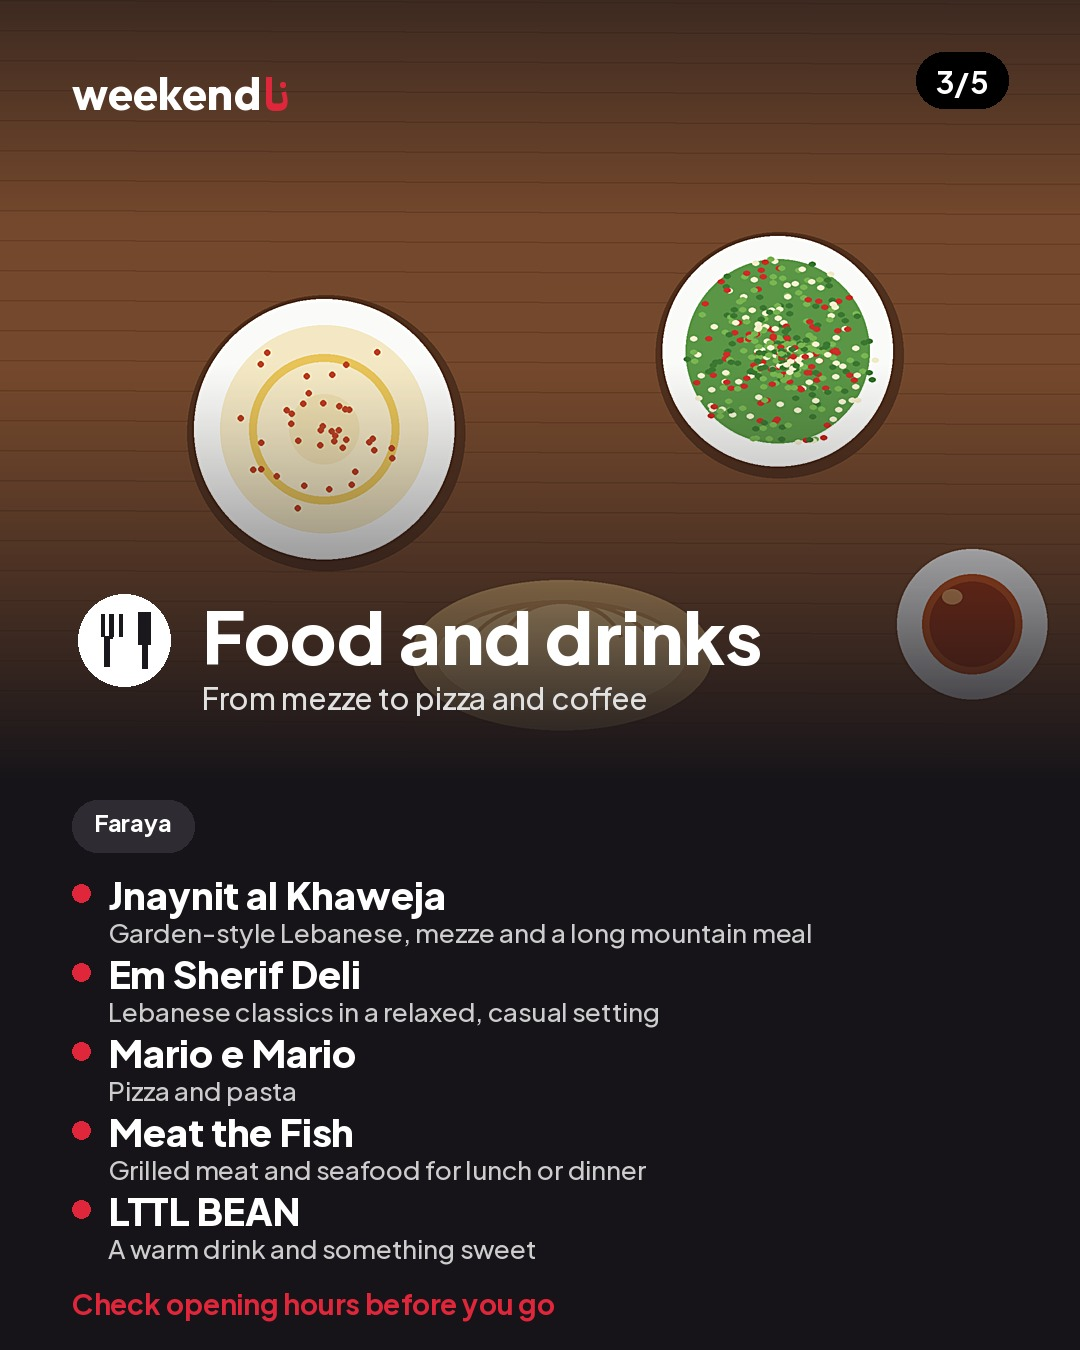
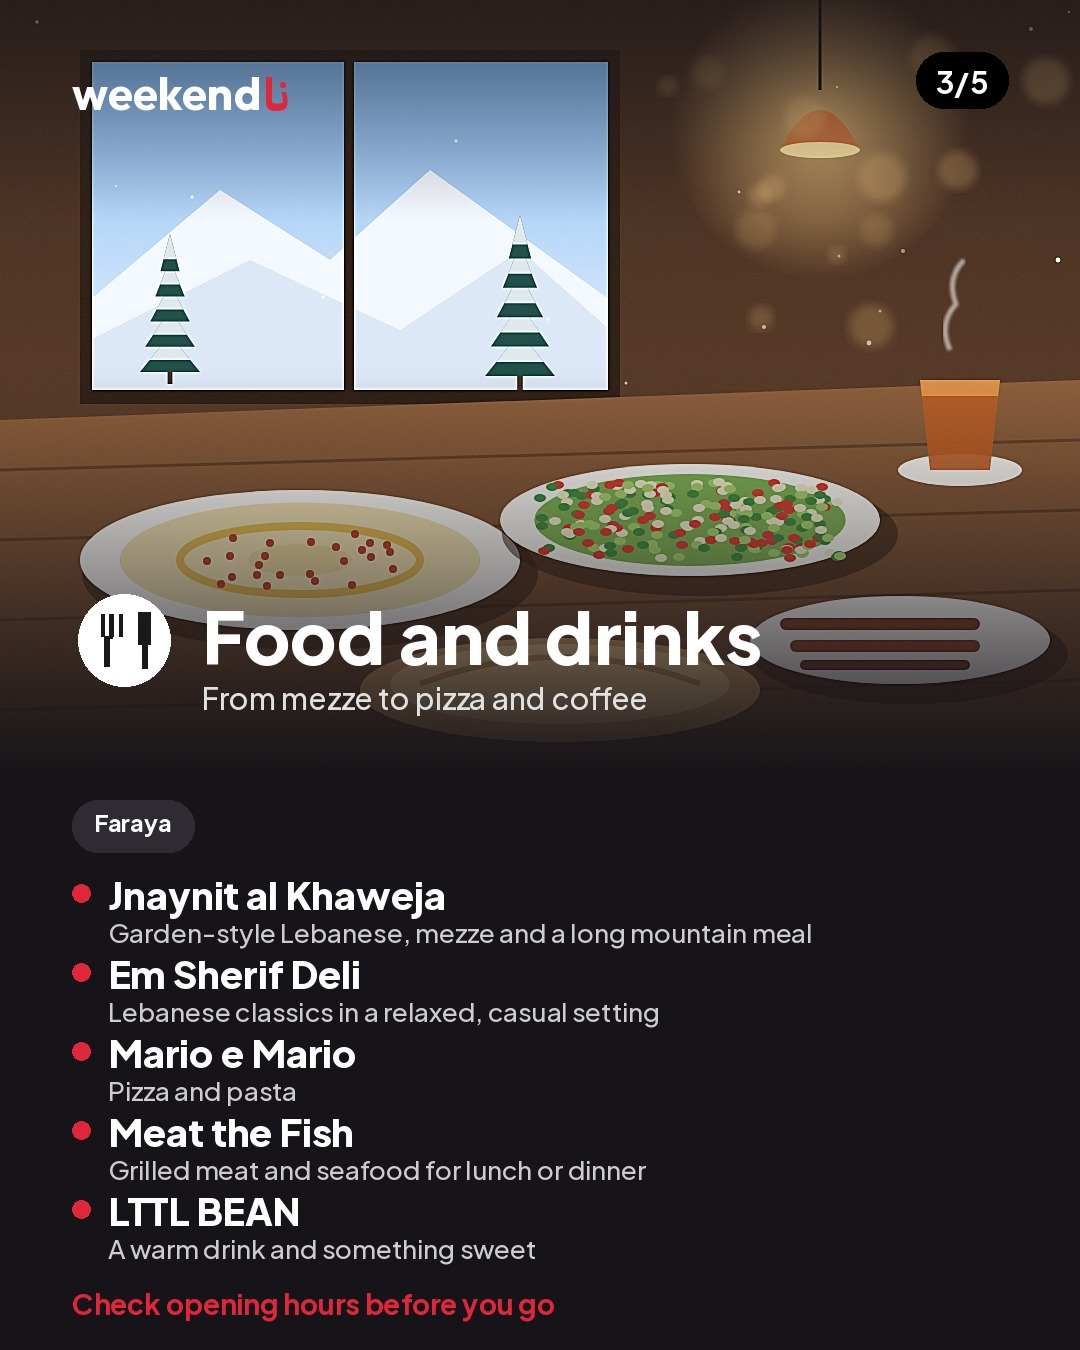
Faraya guide: rich illustrated scenes (SVG) for cover, food, activities, places
Claude-Session: https://claude.ai/code/session_01QuaNDh39daRNLQcQ5xCceG

diff --git a/tools/guide_scenes.py b/tools/guide_scenes.py
@@ -1,0 +1,85 @@
+"""Rich illustrated scenes (SVG rendered with Chromium) for City Guides when no real photo exists. Drawn, not photographic: label as illustrations.
+Usage: python3 tools/guide_scenes.py <outdir>  -> winter.png, ski.png, food.png, village.png (1080x780)."""
+import random, sys, os
+W, H = 1080, 780
+GRAIN = '<filter id="g"><feTurbulence type="fractalNoise" baseFrequency="0.9" numOctaves="2" seed="3"/><feColorMatrix values="0 0 0 0 1  0 0 0 0 1  0 0 0 0 1  0 0 0 .07 0"/></filter><filter id="b4"><feGaussianBlur stdDeviation="4"/></filter><filter id="b10"><feGaussianBlur stdDeviation="10"/></filter><filter id="b2"><feGaussianBlur stdDeviation="1.6"/></filter>'
+def svg(body, defs=""): return f'<svg xmlns="http://www.w3.org/2000/svg" width="{W}" height="{H}" viewBox="0 0 {W} {H}"><defs>{GRAIN}{defs}</defs>{body}<rect width="{W}" height="{H}" filter="url(#g)"/></svg>'
+def pine(x, y, s, c="#173f3a", sn="#f4f8ff", lit=None):
+    o = f'<rect x="{x-s*.04}" y="{y}" width="{s*.08}" height="{s*.2}" fill="#3d2a22"/>'
+    for i in range(5):
+        w = s * (1 - i * .17); yy = y - i * s * .42
+        o += f'<polygon points="{x-w/2},{yy} {x+w/2},{yy} {x},{yy-s*.62}" fill="{c}"/><polygon points="{x-w*.34},{yy-s*.2} {x+w*.34},{yy-s*.2} {x},{yy-s*.62}" fill="{sn}" opacity=".9"/>'
+    return o
+def chalet(x, y, w, h, roof="#f6f9ff", wall="#7b5237", glow="#ffcf70"):
+    o = f'<rect x="{x}" y="{y}" width="{w}" height="{h}" fill="{wall}"/><polygon points="{x-8},{y} {x+w/2},{y-h*.7} {x+w+8},{y}" fill="{roof}"/><polygon points="{x-8},{y} {x+w/2},{y-h*.7} {x+w+8},{y}" fill="#c8d6ea" opacity=".35"/>'
+    for i, fx in enumerate((.18, .58)): o += f'<rect x="{x+w*fx}" y="{y+h*.25}" width="{w*.22}" height="{h*.4}" fill="{glow}"/><rect x="{x+w*fx}" y="{y+h*.25}" width="{w*.22}" height="{h*.4}" fill="{glow}" filter="url(#b4)" opacity=".8"/>'
+    return o
+def flakes(n, seed=1, r=(1, 3.2)):
+    random.seed(seed); return "".join(f'<circle cx="{random.randint(0,W)}" cy="{random.randint(0,H)}" r="{random.uniform(*r):.1f}" fill="#fff" opacity="{random.uniform(.35,.9):.2f}"/>' for _ in range(n))
+def winter():
+    d = '<linearGradient id="sk" x1="0" y1="0" x2="0" y2="1"><stop offset="0" stop-color="#25316b"/><stop offset=".35" stop-color="#8a5a9c"/><stop offset=".6" stop-color="#f08a6a"/><stop offset=".78" stop-color="#ffc47a"/></linearGradient><radialGradient id="sun"><stop offset="0" stop-color="#fff4c9"/><stop offset=".35" stop-color="#ffd27a" stop-opacity=".8"/><stop offset="1" stop-color="#ff9a5a" stop-opacity="0"/></radialGradient><linearGradient id="m1" x1="0" y1="0" x2="0" y2="1"><stop offset="0" stop-color="#b9a7d6"/><stop offset="1" stop-color="#e7a9a0"/></linearGradient><linearGradient id="m2" x1="0" y1="0" x2="0" y2="1"><stop offset="0" stop-color="#e9ecf8"/><stop offset="1" stop-color="#9aa6d0"/></linearGradient><linearGradient id="sl" x1="0" y1="0" x2="0" y2="1"><stop offset="0" stop-color="#fff2e6"/><stop offset="1" stop-color="#9fb0d9"/></linearGradient>'
+    b = f'<rect width="{W}" height="{H}" fill="url(#sk)"/><circle cx="760" cy="330" r="300" fill="url(#sun)"/><circle cx="760" cy="330" r="52" fill="#fff6d6"/>'
+    b += '<polygon points="0,420 140,270 260,360 430,200 600,380 760,250 930,360 1080,280 1080,560 0,560" fill="url(#m1)" filter="url(#b2)"/>'
+    b += '<polygon points="0,470 180,330 330,430 520,300 700,450 880,330 1080,470 1080,640 0,640" fill="url(#m2)"/><polygon points="520,300 560,360 520,350 490,380" fill="#fff"/><polygon points="180,330 215,385 180,375 150,400" fill="#fff"/>'
+    b += '<polygon points="0,600 250,470 520,560 800,480 1080,590 1080,780 0,780" fill="url(#sl)"/>'
+    random.seed(5)
+    for x in range(-20, W + 40, 90): b += pine(x + random.randint(-15, 15), 640 + random.randint(0, 90), 110 + random.randint(0, 50), c="#143a3a")
+    for x, y, w, h in ((150, 585, 70, 44), (300, 610, 84, 52), (830, 590, 76, 48), (960, 615, 70, 46)): b += chalet(x, y, w, h)
+    b += '<line x1="0" y1="110" x2="1080" y2="260" stroke="#2a2430" stroke-width="3"/>'
+    for fx in (.2, .5, .8): x = 1080 * fx; y = 110 + 150 * fx; b += f'<line x1="{x}" y1="{y}" x2="{x}" y2="{y+48}" stroke="#2a2430" stroke-width="3"/><rect x="{x-24}" y="{y+48}" width="48" height="26" rx="6" fill="#d8283c"/>'
+    b += flakes(70, 2, (1, 2.4))
+    return svg(b, d)
+def ski():
+    d = '<linearGradient id="sk" x1="0" y1="0" x2="0" y2="1"><stop offset="0" stop-color="#1d6fd1"/><stop offset=".7" stop-color="#8fc8ff"/><stop offset="1" stop-color="#e6f3ff"/></linearGradient><linearGradient id="sl" x1="0" y1="0" x2="1" y2="1"><stop offset="0" stop-color="#ffffff"/><stop offset="1" stop-color="#bcd2f0"/></linearGradient><radialGradient id="fl"><stop offset="0" stop-color="#fff" stop-opacity=".95"/><stop offset="1" stop-color="#fff" stop-opacity="0"/></radialGradient>'
+    b = f'<rect width="{W}" height="{H}" fill="url(#sk)"/><circle cx="170" cy="120" r="220" fill="url(#fl)"/>'
+    b += '<polygon points="0,380 200,230 380,340 600,190 800,330 1080,220 1080,520 0,520" fill="#dfeaf8"/><polygon points="600,190 650,260 610,250 570,290" fill="#fff"/><polygon points="0,440 260,330 520,430 840,320 1080,420 1080,600 0,600" fill="#f4f8ff"/>'
+    b += '<polygon points="0,780 0,520 1080,360 1080,780" fill="url(#sl)"/><polygon points="0,780 1080,780 1080,520 0,700" fill="#d8e6f8" opacity=".6"/>'
+    random.seed(8)
+    for x in (30, 130, 960, 1040): b += pine(x, 470 + random.randint(-10, 20), 120, c="#1c5a52")
+    b += '<line x1="0" y1="90" x2="1080" y2="40" stroke="#26303f" stroke-width="3"/><rect x="740" y="40" width="4" height="40" fill="#26303f"/><rect x="718" y="78" width="48" height="26" rx="6" fill="#e0314a"/>'
+    def skier(x, y, s, jacket, pants="#1f2a44"):
+        return (f'<g transform="translate({x},{y}) scale({s})"><ellipse cx="0" cy="82" rx="90" ry="10" fill="#9db4d8" opacity=".5"/><line x1="-80" y1="76" x2="70" y2="58" stroke="#16202f" stroke-width="7" stroke-linecap="round"/>'
+                f'<polygon points="-26,0 22,-6 32,50 -14,56" fill="{jacket}"/><polygon points="-14,56 32,50 36,76 -4,80" fill="{pants}"/><circle cx="2" cy="-22" r="17" fill="#f2c9a6"/><path d="M-16,-26 Q2,-50 20,-26 Z" fill="#fafafa"/><rect x="-12" y="-28" width="26" height="9" rx="4" fill="#223"/>'
+                f'<line x1="26" y1="10" x2="84" y2="62" stroke="#16202f" stroke-width="4"/><line x1="-24" y1="10" x2="-70" y2="62" stroke="#16202f" stroke-width="4"/></g>')
+    b += skier(560, 560, 1.55, "#e12d3f") + skier(300, 470, .85, "#1c66d9") + skier(860, 440, .7, "#f2b81c")
+    for i in range(30): random.seed(i); b += f'<circle cx="{480+random.randint(-90,40)}" cy="{640+random.randint(-30,40)}" r="{random.uniform(2,6):.1f}" fill="#fff" opacity=".8"/>'
+    return svg(b, d)
+def food():
+    d = '<linearGradient id="wall" x1="0" y1="0" x2="0" y2="1"><stop offset="0" stop-color="#3a2418"/><stop offset="1" stop-color="#6b4429"/></linearGradient><linearGradient id="tb" x1="0" y1="0" x2="0" y2="1"><stop offset="0" stop-color="#8a5a35"/><stop offset="1" stop-color="#5e3a22"/></linearGradient><linearGradient id="win" x1="0" y1="0" x2="0" y2="1"><stop offset="0" stop-color="#7fb6f0"/><stop offset="1" stop-color="#eaf4ff"/></linearGradient><radialGradient id="warm"><stop offset="0" stop-color="#ffcf80" stop-opacity=".75"/><stop offset="1" stop-color="#ffcf80" stop-opacity="0"/></radialGradient>'
+    b = f'<rect width="{W}" height="{H}" fill="url(#wall)"/><rect x="90" y="60" width="520" height="330" fill="url(#win)"/>'
+    b += '<polygon points="90,300 220,190 330,260 430,170 610,300 610,390 90,390" fill="#f4f8ff"/><polygon points="90,340 250,260 400,330 520,250 610,330 610,390 90,390" fill="#dbe7f7"/>'
+    b += pine(170, 372, 60, "#1b4a44") + pine(520, 376, 70, "#1b4a44") + flakes(40, 6, (1, 2.4)).replace(f'cx="', 'cx="') 
+    b += '<rect x="80" y="50" width="540" height="12" fill="#2a1a10"/><rect x="80" y="390" width="540" height="14" fill="#2a1a10"/><rect x="80" y="50" width="12" height="354" fill="#2a1a10"/><rect x="608" y="50" width="12" height="354" fill="#2a1a10"/><rect x="344" y="50" width="10" height="354" fill="#2a1a10"/>'
+    b += '<circle cx="820" cy="130" r="150" fill="url(#warm)"/><line x1="820" y1="0" x2="820" y2="90" stroke="#1a110b" stroke-width="3"/><path d="M780,150 Q820,70 860,150 Z" fill="#c8703a"/><ellipse cx="820" cy="150" rx="40" ry="8" fill="#ffe3a0"/>'
+    for i in range(14): random.seed(i); b += f'<circle cx="{random.randint(640,1060)}" cy="{random.randint(40,330)}" r="{random.randint(8,26)}" fill="#ffcf80" opacity="{random.uniform(.12,.3):.2f}" filter="url(#b4)"/>'
+    b += '<polygon points="0,420 1080,380 1080,780 0,780" fill="url(#tb)"/>'
+    for y in (470, 540, 620, 710): b += f'<line x1="0" y1="{y}" x2="1080" y2="{y-30}" stroke="#4a2c18" stroke-width="3" opacity=".6"/>'
+    def plate(cx, cy, rx, ry, fill, extra=""): return f'<ellipse cx="{cx+10}" cy="{cy+14}" rx="{rx+8}" ry="{ry+6}" fill="#2a170c" opacity=".55"/><ellipse cx="{cx}" cy="{cy}" rx="{rx}" ry="{ry}" fill="#fbf9f4"/><ellipse cx="{cx}" cy="{cy}" rx="{rx*.82}" ry="{ry*.82}" fill="{fill}"/>{extra}'
+    b += plate(300, 560, 220, 70, "#f0e0b0", '<ellipse cx="300" cy="560" rx="120" ry="34" fill="none" stroke="#e1b84a" stroke-width="8"/><ellipse cx="300" cy="560" rx="52" ry="16" fill="#e8d49a"/>' + "".join(f'<circle cx="{300+random.randint(-100,100)}" cy="{560+random.randint(-26,26)}" r="4" fill="#b8402a"/>' for _ in range(24)))
+    random.seed(2); b += plate(690, 520, 190, 56, "#7cb04e", "".join(f'<ellipse cx="{690+random.randint(-150,150)}" cy="{520+random.randint(-38,38)}" rx="6" ry="4" fill="{random.choice(["#3f8a3a","#a6d36a","#d8392c","#f1ecc8"])}"/>' for _ in range(220)))
+    b += '<ellipse cx="560" cy="690" rx="200" ry="52" fill="#c89458"/><ellipse cx="560" cy="684" rx="170" ry="40" fill="#e8bd80"/><path d="M420,684 Q560,630 700,684" fill="none" stroke="#c08a4e" stroke-width="6"/>'
+    b += plate(900, 640, 150, 44, "#fbf9f4", '<rect x="780" y="618" width="200" height="12" rx="6" fill="#7a3a22"/><rect x="790" y="640" width="190" height="12" rx="6" fill="#8a4326"/><rect x="800" y="660" width="170" height="10" rx="5" fill="#6e3220"/>')
+    b += '<ellipse cx="960" cy="470" rx="62" ry="16" fill="#f5f2ec"/><path d="M920,380 L1000,380 L990,470 L930,470 Z" fill="#b8581c" opacity=".92"/><path d="M920,380 L1000,380 L998,396 L922,396 Z" fill="#f6b25a" opacity=".6"/><path d="M950,350 q-12,-26 6,-46 q-10,-26 8,-44" fill="none" stroke="#fff" stroke-width="5" opacity=".55" filter="url(#b2)"/>'
+    return svg(b, d)
+def village():
+    d = '<linearGradient id="sk" x1="0" y1="0" x2="0" y2="1"><stop offset="0" stop-color="#7aa8e0"/><stop offset="1" stop-color="#ffd9b0"/></linearGradient><linearGradient id="st" x1="0" y1="0" x2="0" y2="1"><stop offset="0" stop-color="#eaf0fb"/><stop offset="1" stop-color="#a9b8d8"/></linearGradient><pattern id="stone" width="34" height="22" patternUnits="userSpaceOnUse"><rect width="34" height="22" fill="#b8a68c"/><rect x="1" y="1" width="15" height="9" rx="2" fill="#c6b69c"/><rect x="18" y="1" width="15" height="9" rx="2" fill="#aa987e"/><rect x="9" y="12" width="15" height="9" rx="2" fill="#bfae94"/></pattern>'
+    b = f'<rect width="{W}" height="{H}" fill="url(#sk)"/><polygon points="0,330 200,170 380,290 560,140 760,280 1080,180 1080,420 0,420" fill="#e8eefb"/><polygon points="560,140 600,210 560,200 530,240" fill="#fff"/><polygon points="0,380 300,290 640,370 1080,300 1080,480 0,480" fill="#d6e1f5"/>'
+    def house(x, y, w, h, flip=0):
+        o = f'<rect x="{x}" y="{y}" width="{w}" height="{h}" fill="url(#stone)"/><rect x="{x}" y="{y}" width="{w}" height="{h}" fill="#000" opacity=".12"/><polygon points="{x-12},{y+2} {x+w/2},{y-h*.45} {x+w+12},{y+2}" fill="#b4533a"/><polygon points="{x-12},{y+2} {x+w/2},{y-h*.45} {x+w+12},{y+2}" fill="#fff" opacity=".0"/><polygon points="{x-14},{y+4} {x+w/2},{y-h*.47} {x+w/2},{y-h*.38} {x-6},{y+10}" fill="#f8fbff"/>'
+        for fx in (.14, .6): o += f'<path d="M{x+w*fx},{y+h*.55} v-{h*.25} a{w*.1},{w*.1} 0 0 1 {w*.2},0 v{h*.25} Z" fill="#ffc86a"/><path d="M{x+w*fx},{y+h*.55} v-{h*.25} a{w*.1},{w*.1} 0 0 1 {w*.2},0 v{h*.25} Z" fill="#ffc86a" filter="url(#b4)" opacity=".8"/>'
+        return o + f'<path d="M{x+w*.38},{y+h} v-{h*.3} a{w*.12},{w*.12} 0 0 1 {w*.24},0 v{h*.3} Z" fill="#4a2e20"/>'
+    b += house(30, 330, 250, 190) + house(840, 300, 220, 220) + house(380, 380, 170, 130) + house(590, 370, 190, 140)
+    b += '<polygon points="0,780 0,540 1080,540 1080,780" fill="url(#st)"/><polygon points="430,540 650,540 1080,780 0,780" fill="#f6f9ff" opacity=".7"/><polygon points="470,540 610,540 760,780 330,780" fill="#dfe6f4" opacity=".8"/>'
+    for x in (150, 940): b += f'<rect x="{x}" y="430" width="6" height="140" fill="#2a2a32"/><circle cx="{x+3}" cy="424" r="14" fill="#ffd27a"/><circle cx="{x+3}" cy="424" r="34" fill="#ffd27a" opacity=".4" filter="url(#b4)"/>'
+    random.seed(11)
+    for x in (320, 760): b += pine(x, 548, 100, "#17433d")
+    b += flakes(120, 9, (1.2, 3.6))
+    return svg(b, d)
+if __name__ == "__main__":
+    from playwright.sync_api import sync_playwright
+    out = sys.argv[1]; os.makedirs(out, exist_ok=True)
+    with sync_playwright() as p:
+        br = p.chromium.launch(); pg = br.new_page(viewport={"width": W, "height": H})
+        for n, f in (("winter", winter), ("ski", ski), ("food", food), ("village", village)):
+            pg.set_content(f'<body style="margin:0">{f()}</body>'); pg.screenshot(path=f"{out}/{n}.png"); print(n)
+        br.close()

diff --git a/tools/examples/make_faraya_guide.py b/tools/examples/make_faraya_guide.py
@@ -54,26 +54,28 @@ def photo_slide(photo, out, num, total, kind, title, sub, place, items, foot=Non
     if foot: d.text((M, 1285), foot, font=fit(d, foot, W - 2 * M, 700, 28, 20), fill=RED)
     img.save(out, quality=92)
 
-import guide_art as ART
+import guide_scenes as GS, tempfile, subprocess
+_T = tempfile.mkdtemp(); subprocess.run([sys.executable, os.path.join(os.path.dirname(__file__), "..", "guide_scenes.py"), _T], check=True, capture_output=True)
+SC = lambda n: Image.open(f"{_T}/{n}.png").convert("RGB")
 SNOW = P("acampar/42-01")  # Faraya winter image (Acampar), used until real photos of the sights/food exist
-slide1(P("acampar/42-02"), f"{O}/guide-1.jpg", "A weekend in Faraya", "Stay · Eat · Do · Explore", "Fireplaces, snow and mountain views, 45 min from Beirut",
+slide1(SC("winter"), f"{O}/guide-1.jpg", "A weekend in Faraya", "Stay · Eat · Do · Explore", "Snow, fireplaces and mountain views, 45 min from Beirut",
        "", "Faraya · Faqra · Mzaar")
 photo_slide(P("acampar/42-04"), f"{O}/guide-2.jpg", 1, 5, "stay", "Where to stay", "Acampar Faraya, 45 min from Beirut", "Faraya",
             [("Wooden bungalows, most with a fireplace", ""), ("Mountain views and a terrace", ""), ("For 2 to 6 guests", "")], "From $80 a night", cy=0.55)
 photo_slide(P("fvc/26-01"), f"{O}/guide-3.jpg", 2, 5, "stay", "Where to stay", "Faraya Village Club, Mzaar", "Mzaar",
             [("A chimney in every chalet", ""), ("A heated pool on site", ""), ("From a studio for 2 to a chalet for 7", "")], "From $150 a night")
-photo_slide(ART.food(), f"{O}/guide-4.jpg", 3, 5, "eat", "Food and drinks", "From mezze to pizza and coffee", "Faraya",
+photo_slide(SC("food"), f"{O}/guide-4.jpg", 3, 5, "eat", "Food and drinks", "From mezze to pizza and coffee", "Faraya",
             [("Jnaynit al Khaweja", "Garden-style Lebanese, mezze and a long mountain meal"), ("Em Sherif Deli", "Lebanese classics in a relaxed, casual setting"),
              ("Mario e Mario", "Pizza and pasta"), ("Meat the Fish", "Grilled meat and seafood for lunch or dinner"), ("LTTL BEAN", "A warm drink and something sweet")],
             "Check opening hours before you go", cy=0.5)
-photo_slide(ART.winter(), f"{O}/guide-5.jpg", 4, 5, "do", "Activities", "Snow, speed and slow mountain days", "Mzaar and Faraya",
+photo_slide(SC("ski"), f"{O}/guide-5.jpg", 4, 5, "do", "Activities", "Snow, speed and slow mountain days", "Mzaar and Faraya",
             [("Ski and snowboard", "Mzaar Kfardebian, when the snow and slopes are open"), ("Snowmobile rides", "With a local operator, when conditions allow"),
              ("Hiking and mountain walks", "Highland trails and cooler mountain air"), ("Scenic outings", "Viewpoints, photos and relaxed mountain drives")],
             "Depends on weather, season and operators", cy=0.5)
-photo_slide(ART.landmark(), f"{O}/guide-6.jpg", 5, 5, "see", "Places to visit", "Four easy additions to your weekend", "Faqra and Faraya",
+photo_slide(SC("village"), f"{O}/guide-6.jpg", 5, 5, "see", "Places to visit", "Four easy additions to your weekend", "Faqra and Faraya",
             [("Chabrouh Dam", "A mountain reservoir and scenic spot for a walk"), ("Faqra Roman Ruins", "Ancient stone remains in a mountain setting"),
              ("Faqra Natural Bridge", "A dramatic natural rock bridge"), ("Saint Charbel Statue", "A hilltop landmark with wide mountain views")],
             "Check opening times before you go", cy=0.5)
 last(f"{O}/guide-7.jpg", None, "Plan your Faraya weekend", "", main="save", head=("Your Faraya", "weekend starts here"))
-story(P("acampar/42-02"), f"{O}/story.jpg", "A weekend", "in Faraya", "Stays, food, activities and places to visit", "", main="save")
+story(SC("winter"), f"{O}/story.jpg", "A weekend", "in Faraya", "Stays, food, activities and places to visit", "", main="save")
 print("ok")
